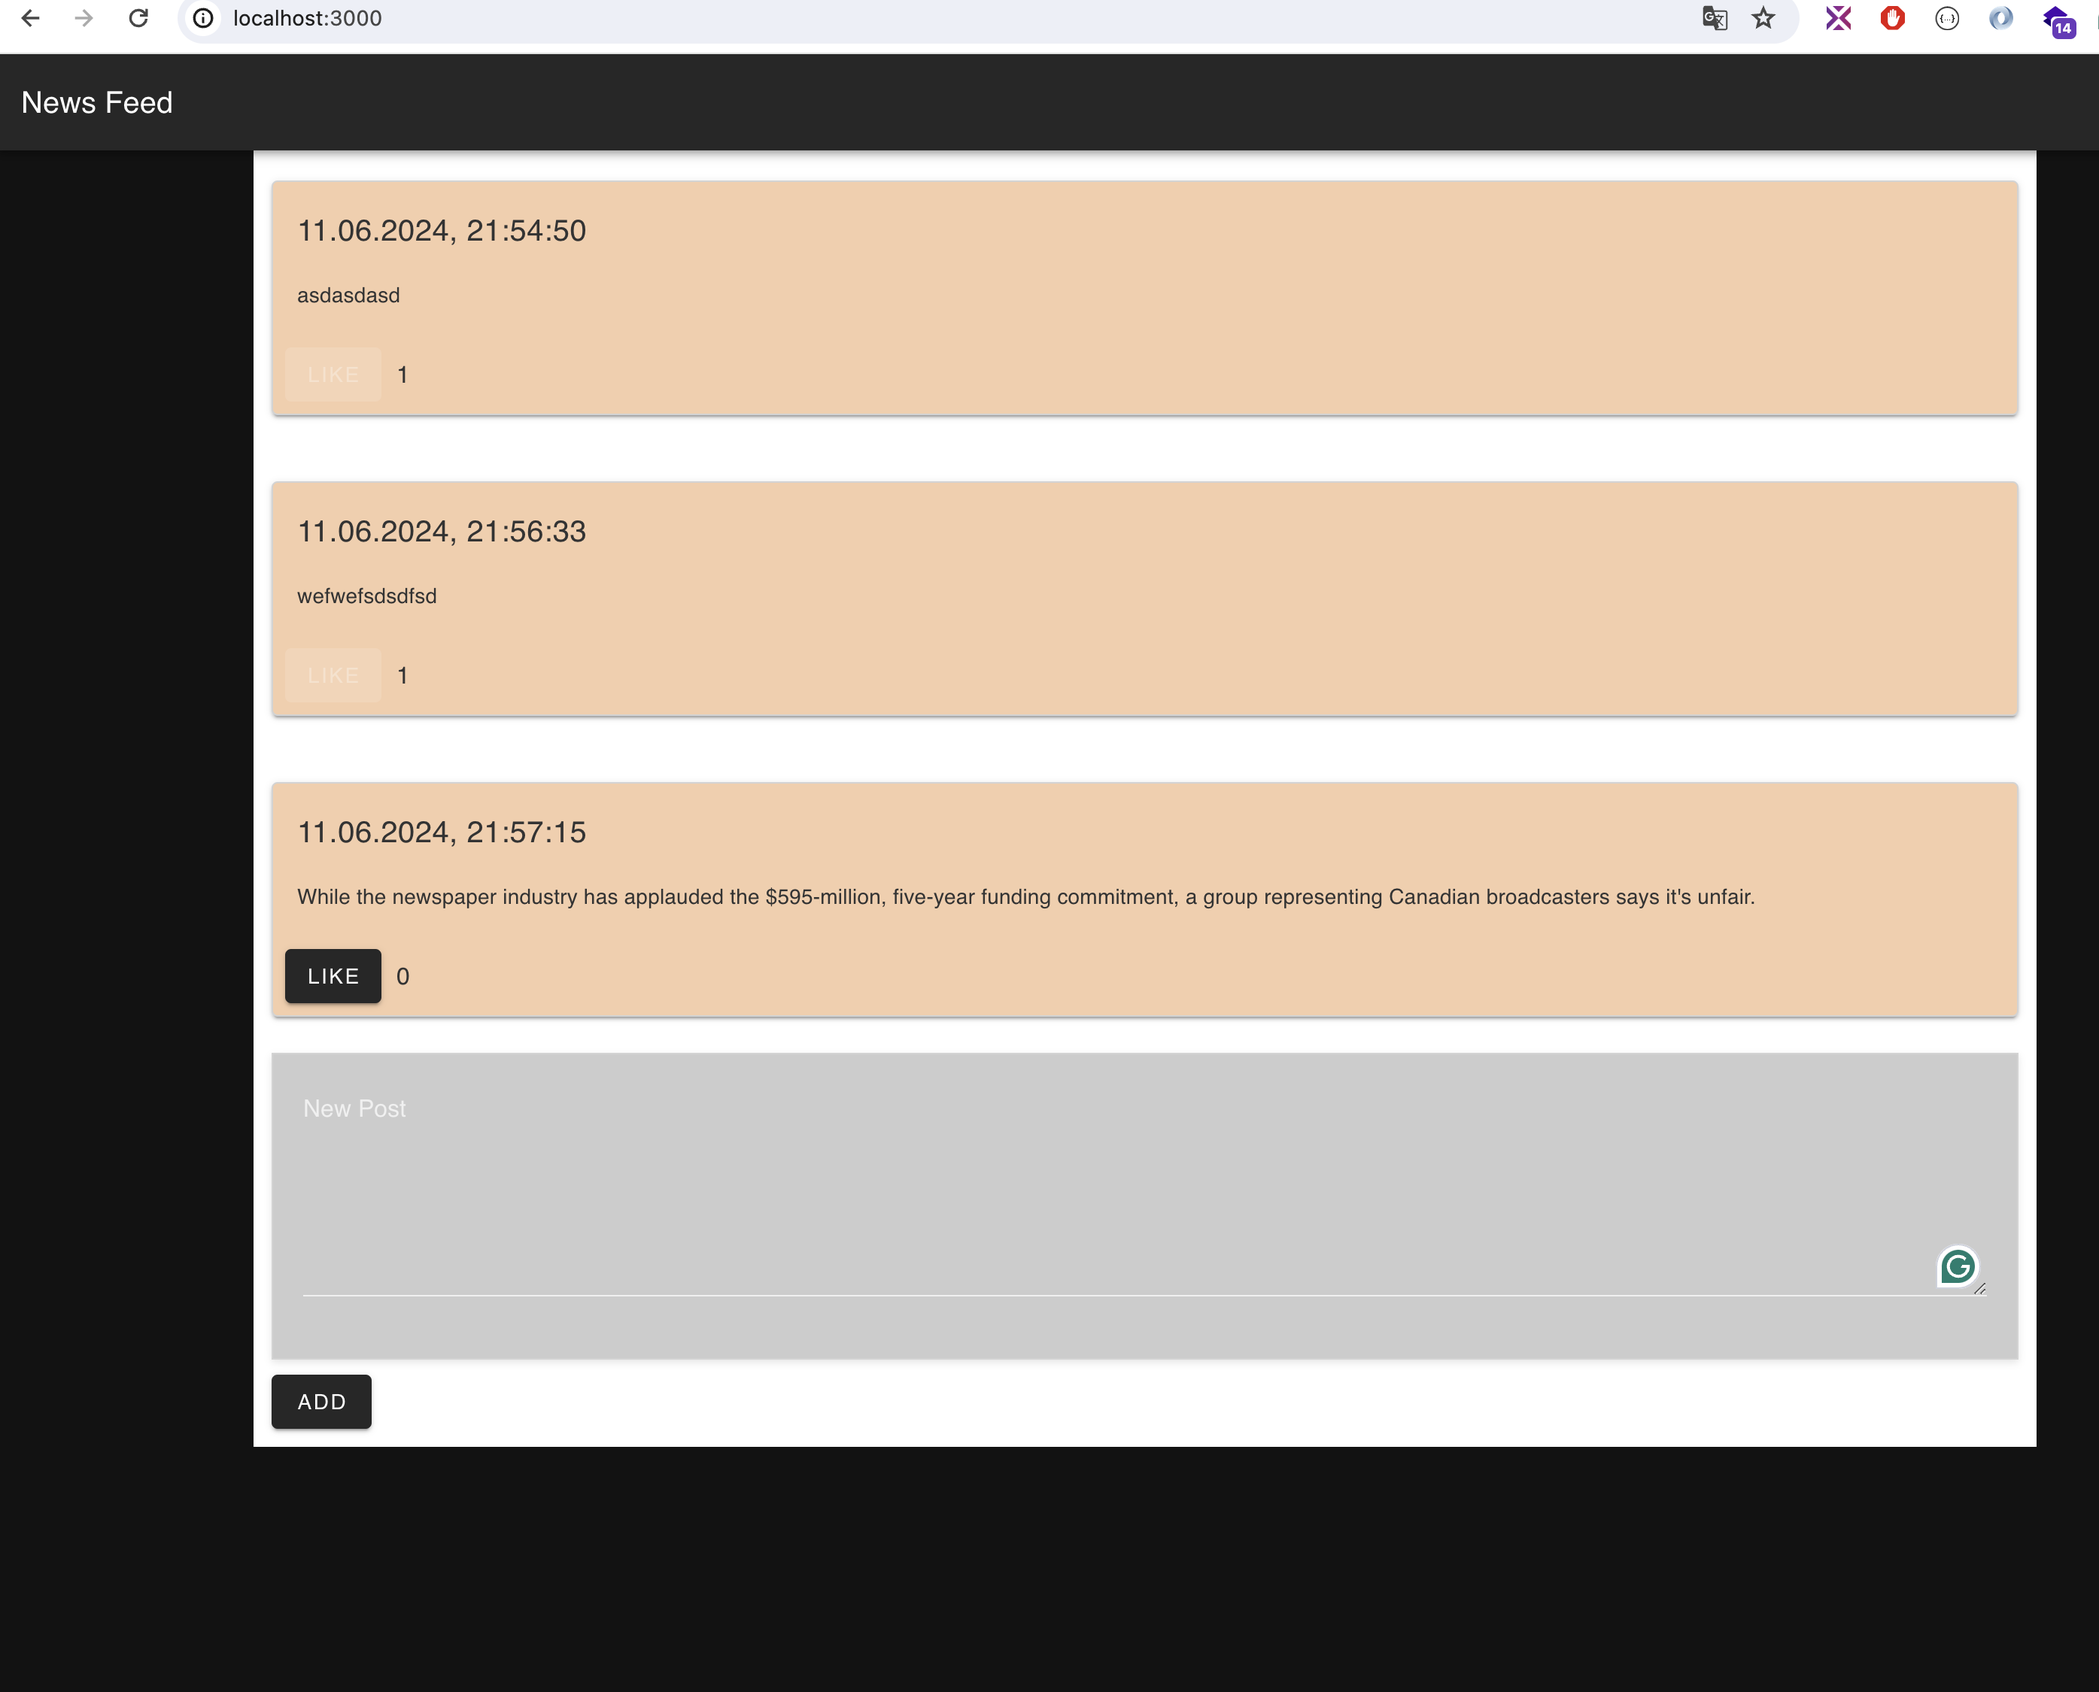
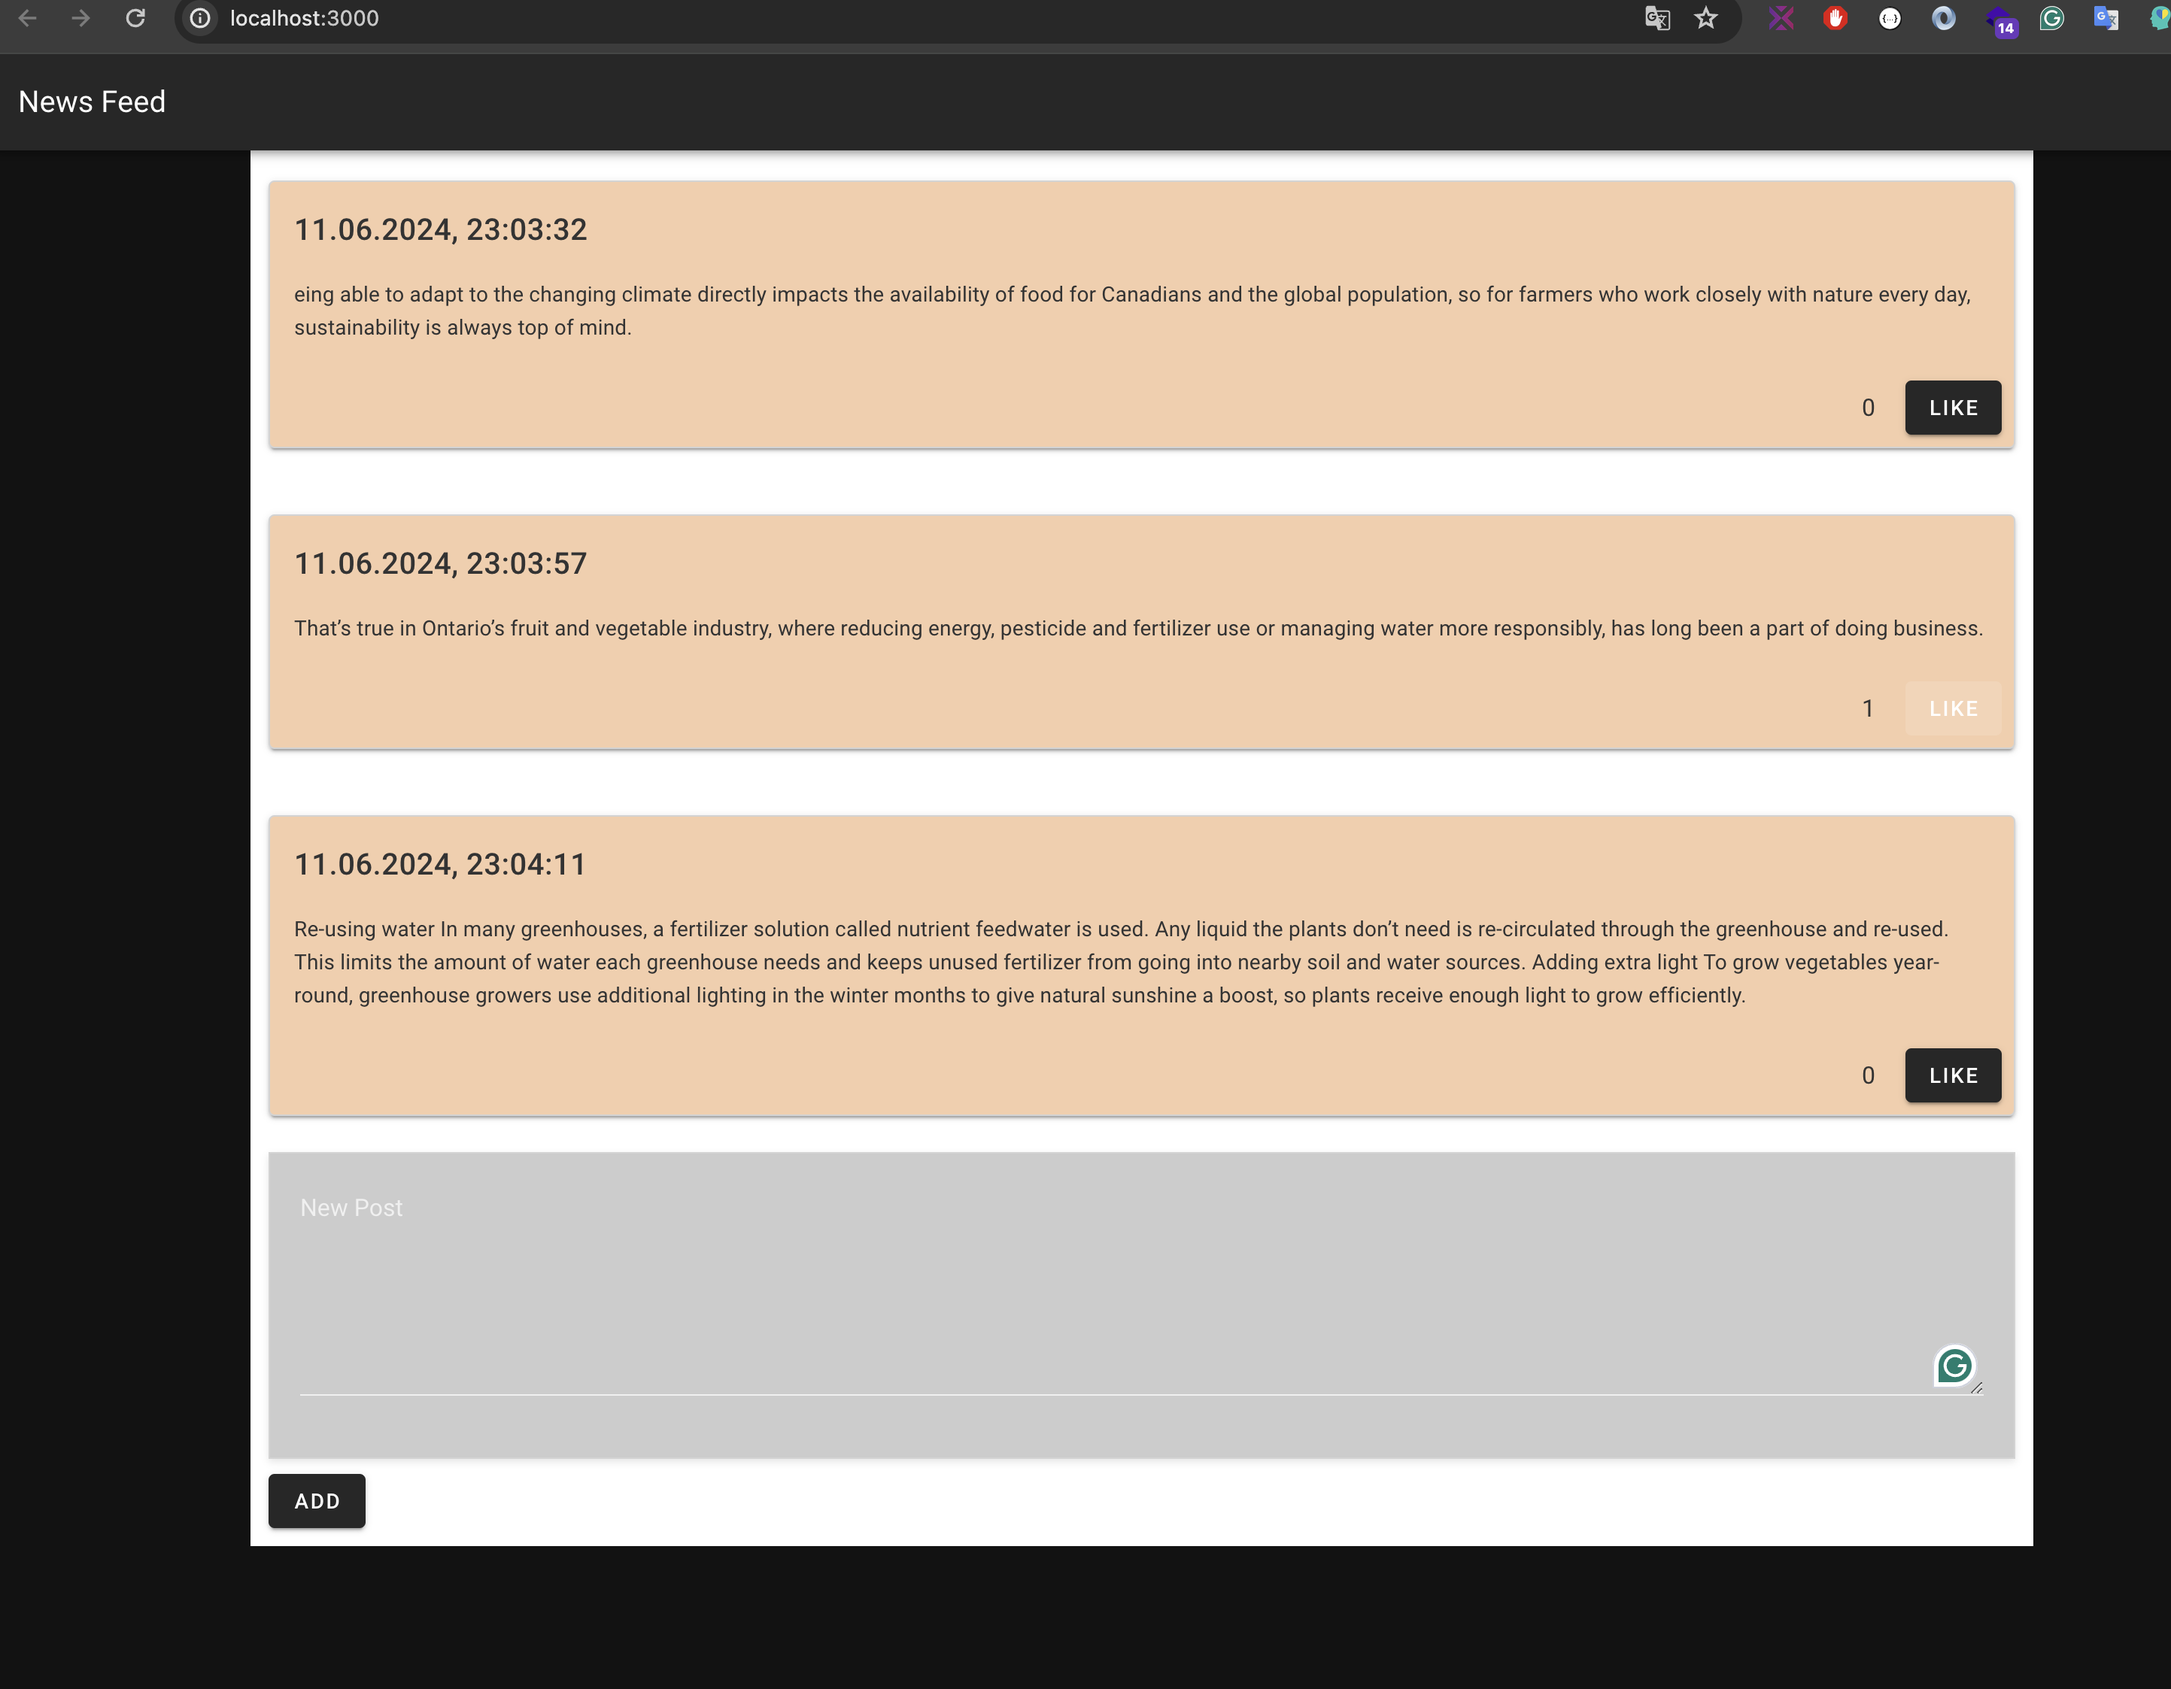
updated styles

diff --git a/pages/index.vue b/pages/index.vue
@@ -5,9 +5,9 @@
         <v-card class="news-card">
           <v-card-title class="news-title">{{ formatDate(post.date) }}</v-card-title>
           <v-card-text class="news-text">{{ post.text }}</v-card-text>
-          <v-card-actions>
+          <v-card-actions class="news-actions">
+            <span class="news-like">{{ post.likes }}</span>
             <v-btn :disabled="post.liked" @click="likePost(post.id)">Like</v-btn>
-            <span>{{ post.likes }}</span>
           </v-card-actions>
         </v-card>
       </v-col>
@@ -80,10 +80,14 @@ export default {
   color: #333333 !important;
 }
 
-.v-card-actions {
+.news-actions {
   display: flex;
-  justify-content: space-between;
+  justify-content: flex-end !important;
   align-items: center;
+}
+
+.news-like {
+  margin-right: 20px;
 }
 
 .v-btn {

diff --git a/server.js b/server.js
@@ -10,10 +10,10 @@ const sharedsession = require('express-socket.io-session');
 const app = express();
 
 const sessionMiddleware = session({
-  secret: 'mySecretKey', // Заміни на свій секретний ключ
+  secret: 'mySecretKey', // Secret Key
   resave: false,
   saveUninitialized: true,
-  cookie: { maxAge: 24 * 60 * 60 * 1000 } // 1 день
+  cookie: { maxAge: 24 * 60 * 60 * 1000 } // 1 day
 });
 
 app.use(cors());
@@ -56,7 +56,6 @@ io.on('connection', (socket) => {
     userSession.likedPosts = [];
   }
 
-  // Впевніться, що новини завантажуються при підключенні
   const sortedNewsFeed = newsFeed.sort((a, b) => new Date(a.date) - new Date(b.date)).slice(-10);
   socket.emit('news', sortedNewsFeed);
 
